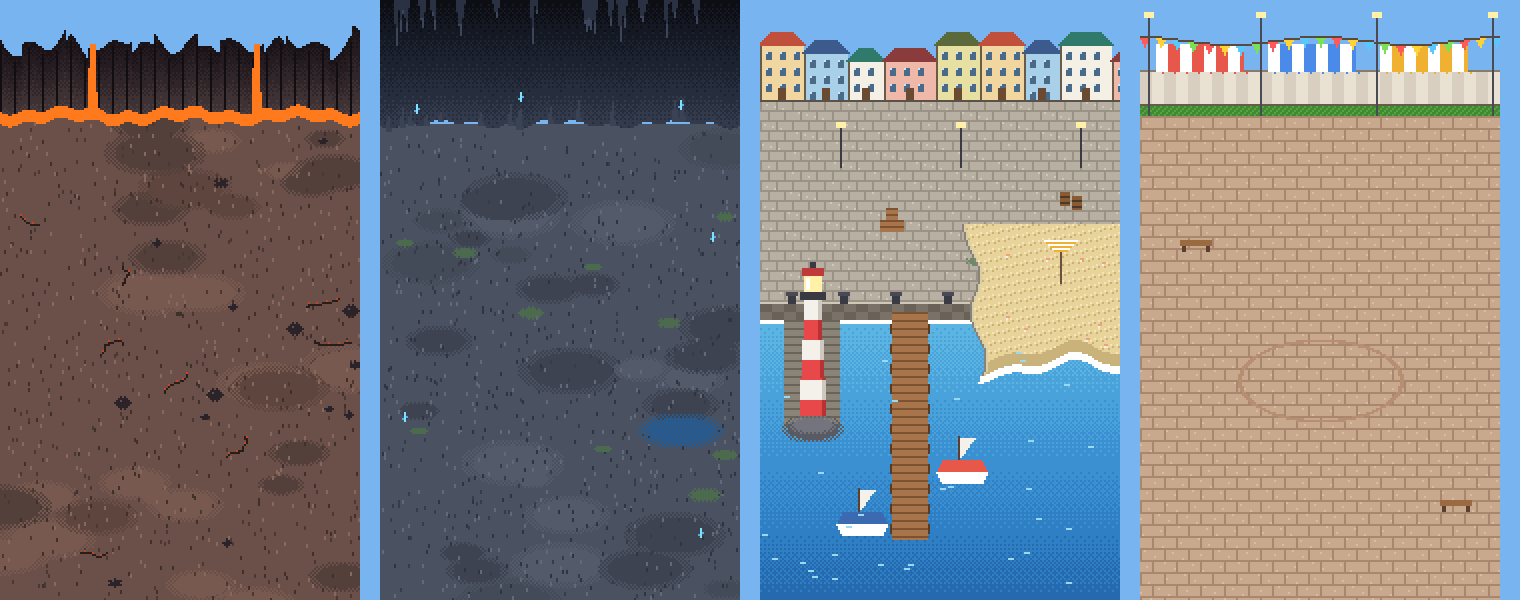
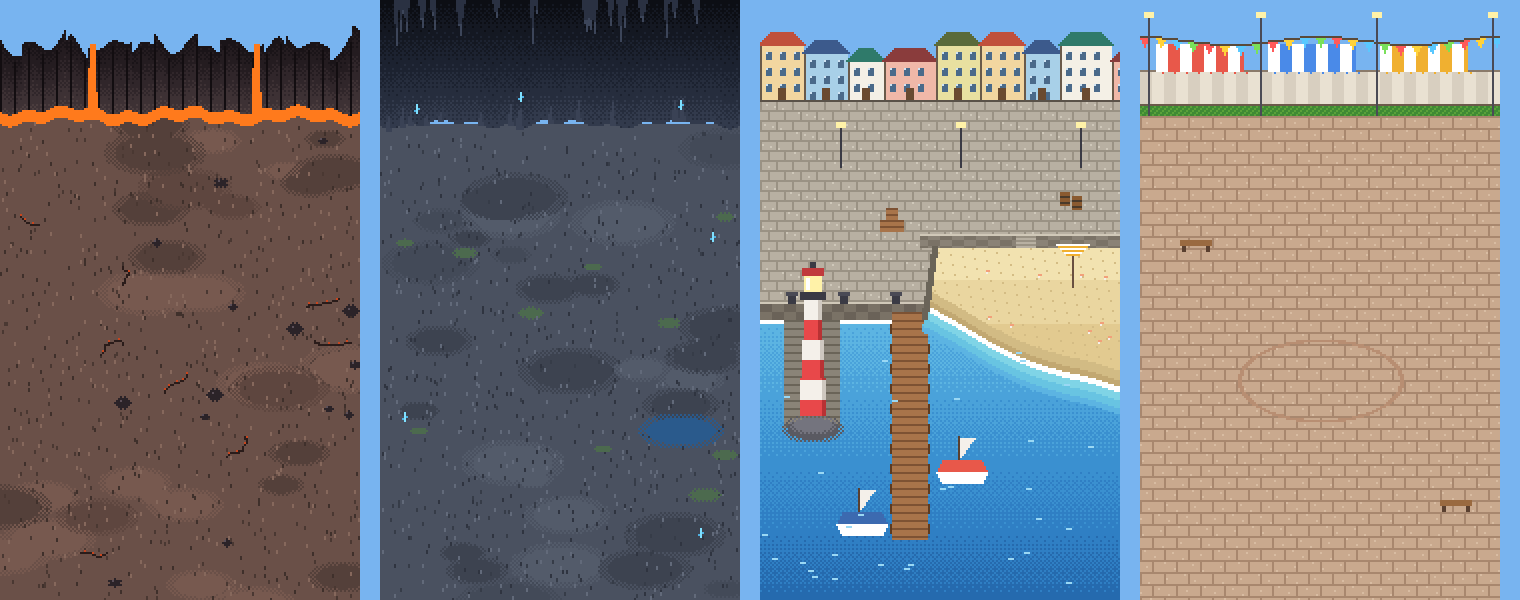
항구 출발 그림: 해변을 방파제·계단 아래 모래사장으로, 물가 완만한 곡선·얕은 물빛·젖은 모래 (경완 '해변이 자연스럽지가 않잖어')
Claude-Session: https://claude.ai/code/session_012Z4iFifcZH9cfXSxsF9mWo

Changed region(s): [[0.5875, 0.36, 0.7421, 0.69]]

diff --git a/assets_src/maps/init/init.py b/assets_src/maps/init/init.py
@@ -118,10 +118,10 @@ def beach():
   c.blot(110,130,8,'#6a8a6a',3)
   # 부둣가 돌 축대 + 계선주 (바다와 경계)
   QY=156
-  for x in range(112):
+  for x in range(92):
     for y in range(QY-4,QY+4): c.px(x,y,'#7a7266' if ((x//6)+(y//4))%2 else '#6a6258')
     c.px(x,QY-5,'#d0c8b8')
-  for bx in range(14,100,26): c.rect(bx,QY-9,4,5,'#3a3a44'); c.rect(bx-1,QY-10,6,2,'#4a4a55')
+  for bx in range(14,90,26): c.rect(bx,QY-9,4,5,'#3a3a44'); c.rect(bx-1,QY-10,6,2,'#4a4a55')
   # 바다 (아래 넓게)
   SEA=['#5cb4e2','#4aa2da','#3a90d0','#2f7fc4','#256aae']
   for x in range(W):
@@ -147,26 +147,34 @@ def beach():
     c.rect(cx+3,cy-18,1,12,'#5a4030')
     for k in range(10): c.rect(cx+4,cy-17+k,max(1,int(8-k*0.7)),1,'#f4f0ea')
   boat(96,236,'#e8584a'); boat(46,262,'#3c6ab0')
-  # 오른쪽 모래 해변: 포장 끝에서 모래로, 해변 물가는 축대보다 아래
-  def sh(x): return 182+round(math.sin(x*.07)*4+math.sin(x*.19)*2)
-  def se(y): return 104+round(math.sin(y*.15)*3+(y-110)*.08)
-  for y in range(112,H):
-    for x in range(W):
-      if x>=se(y):
-        if y<sh(x):
-          k=(x*31+y*17)%23
-          c.px(x,y,'#e8d39a' if k>3 else ('#cbb075' if k>1 else '#f4e6bc'))
-          if y>=sh(x)-6: c.px(x,y,'#c9b37a')
-        elif y<sh(x)+4: c.px(x,y,'#ffffff')
-  for y in range(112,H):   # 포장·모래 경계 돌 턱
-    x=se(y)
-    if y<sh(x): c.px(x,y,'#8a8276'); c.px(x+1,y,'#d8cfa8')
+  # 오른쪽 모래사장: 산책길 아래 방파제·계단으로 내려가고, 물가는 완만한 곡선
+  WY=118   # 방파제 위
+  def sh(x): return round(158+(x-88)*.42+math.sin(x*.06)*3)          # 물가 (왼쪽 축대 끝에서 오른쪽 아래로)
+  def lx(y): return 88-round((y-WY)*.15)                                 # 모래 왼쪽 끝 (축대·바위 쪽)
+  for x in range(80,W):
+    for y in range(WY,WY+6): c.px(x,y,'#8a8276' if ((x//6)+(y//3))%2 else '#7a7266')   # 방파제 벽
+    c.px(x,WY-1,'#d0c8b8')
+  for k in range(6): c.rect(128+k*0,WY+k,10,1,'#b8b0a2' if k%2 else '#9a9284')       # 계단
+  SAND=['#f2e2b0','#ead6a0','#e2ca90']
+  for y in range(WY+6,H):
+    for x in range(lx(y),W):
+      d=sh(x)-y
+      if d>0:
+        k=min(2,(y-WY)//22); col=SAND[k]
+        if (x*31+y*17)%29==0: col='#d4bc84'
+        if d<=8: col='#d2bb84' if d>3 else '#c2a872'      # 젖은 모래
+        c.px(x,y,col)
+      elif d>-3: c.px(x,y,'#ffffff')                     # 파도 거품 (움직임 자리)
+      elif d>-14:                                       # 얕은 물
+        t=(-d-3)/11; c.px(x,y,'#7fd4e6' if t<.35 else ('#68c4e2' if t<.7 else '#5cb4e2'))
+  for y in range(WY+6,H):   # 축대 끝 바위
+    x=lx(y)
+    if y<sh(x)+6: c.blot(x,y,2,'#6a6458',1.5)
   for i in range(10):
-    x,y=120+R.random()*55,120+R.random()*55
-    if y<sh(int(x))-8: c.px(x,y,'#f2a07a'); c.px(x+1,y,'#f2a07a'); c.px(x,y+1,'#f5f0e8')
-  # 파라솔 하나
-  c.rect(150,126,1,16,'#6a5040')
-  for k in range(6): c.rect(150-8+k,120+k,17-2*k,1,'#f0b030' if k%2 else '#ffffff')
+    x=110+R.random()*68; y=WY+12+R.random()*40
+    if y<sh(int(x))-10: c.px(x,y,'#f2a07a'); c.px(x+1,y,'#f2a07a'); c.px(x,y+1,'#f5f0e8')
+  c.rect(156,128,1,16,'#6a5040')
+  for k in range(6): c.rect(156-8+k,122+k,17-2*k,1,'#f0b030' if k%2 else '#ffffff')
   # 바다 반짝 자리
   for i in range(30):
     x,y=R.random()*W,175+R.random()*120; c.rect(x,y,3,1,'#9ad8f4')
